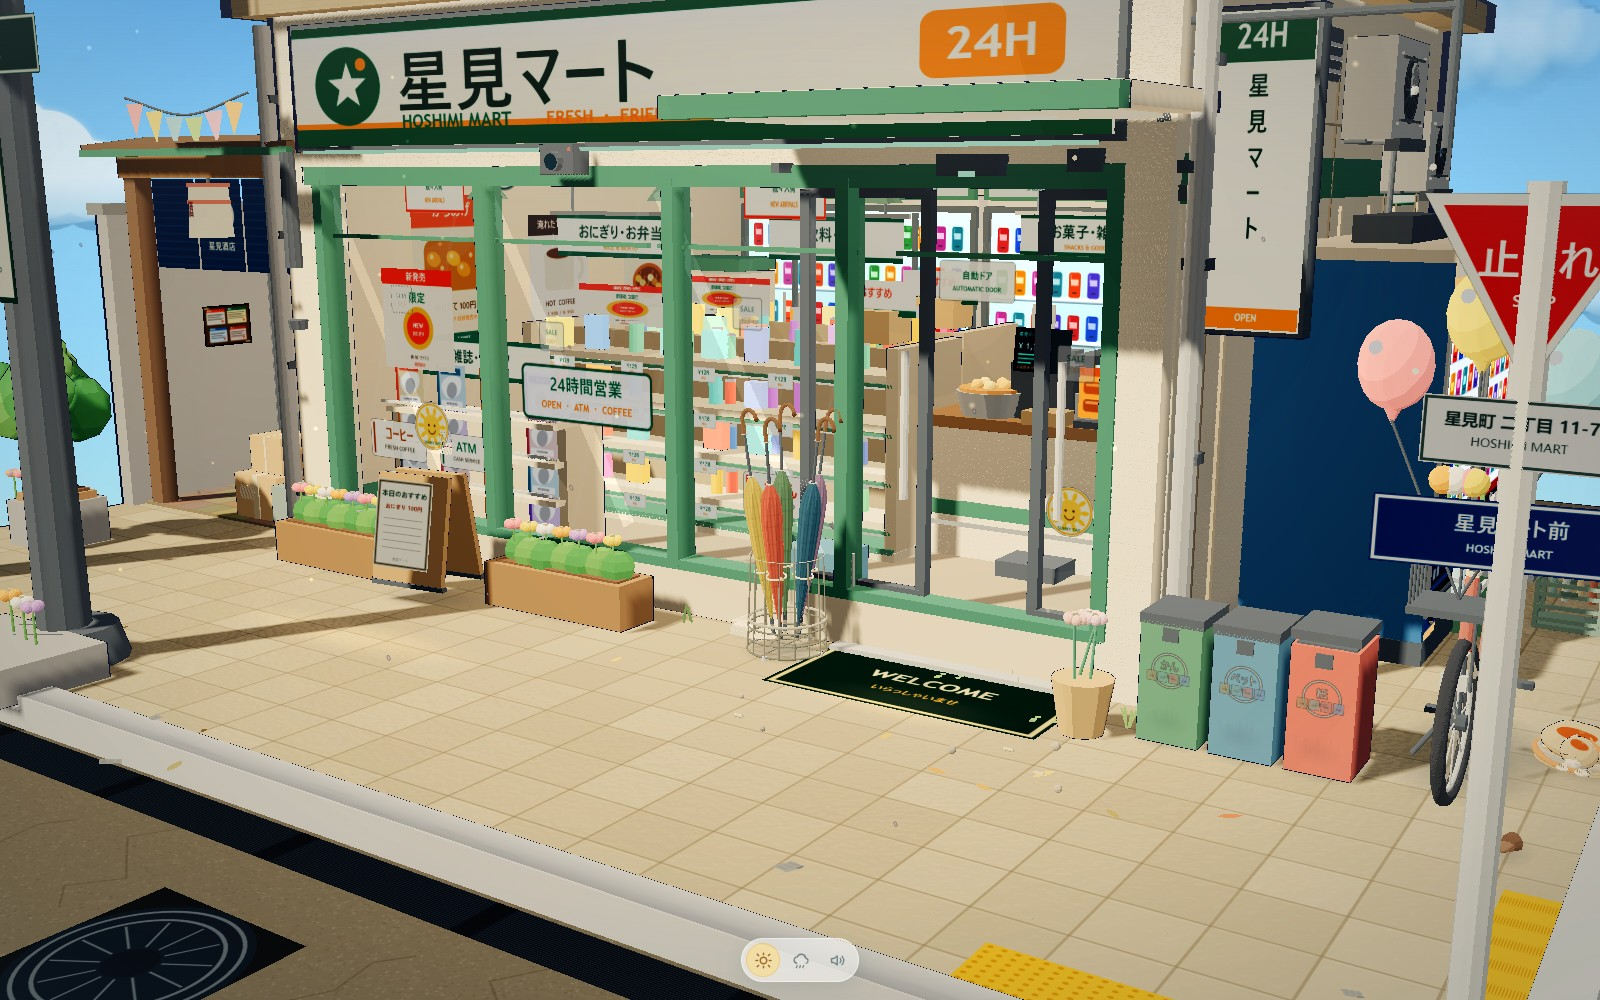
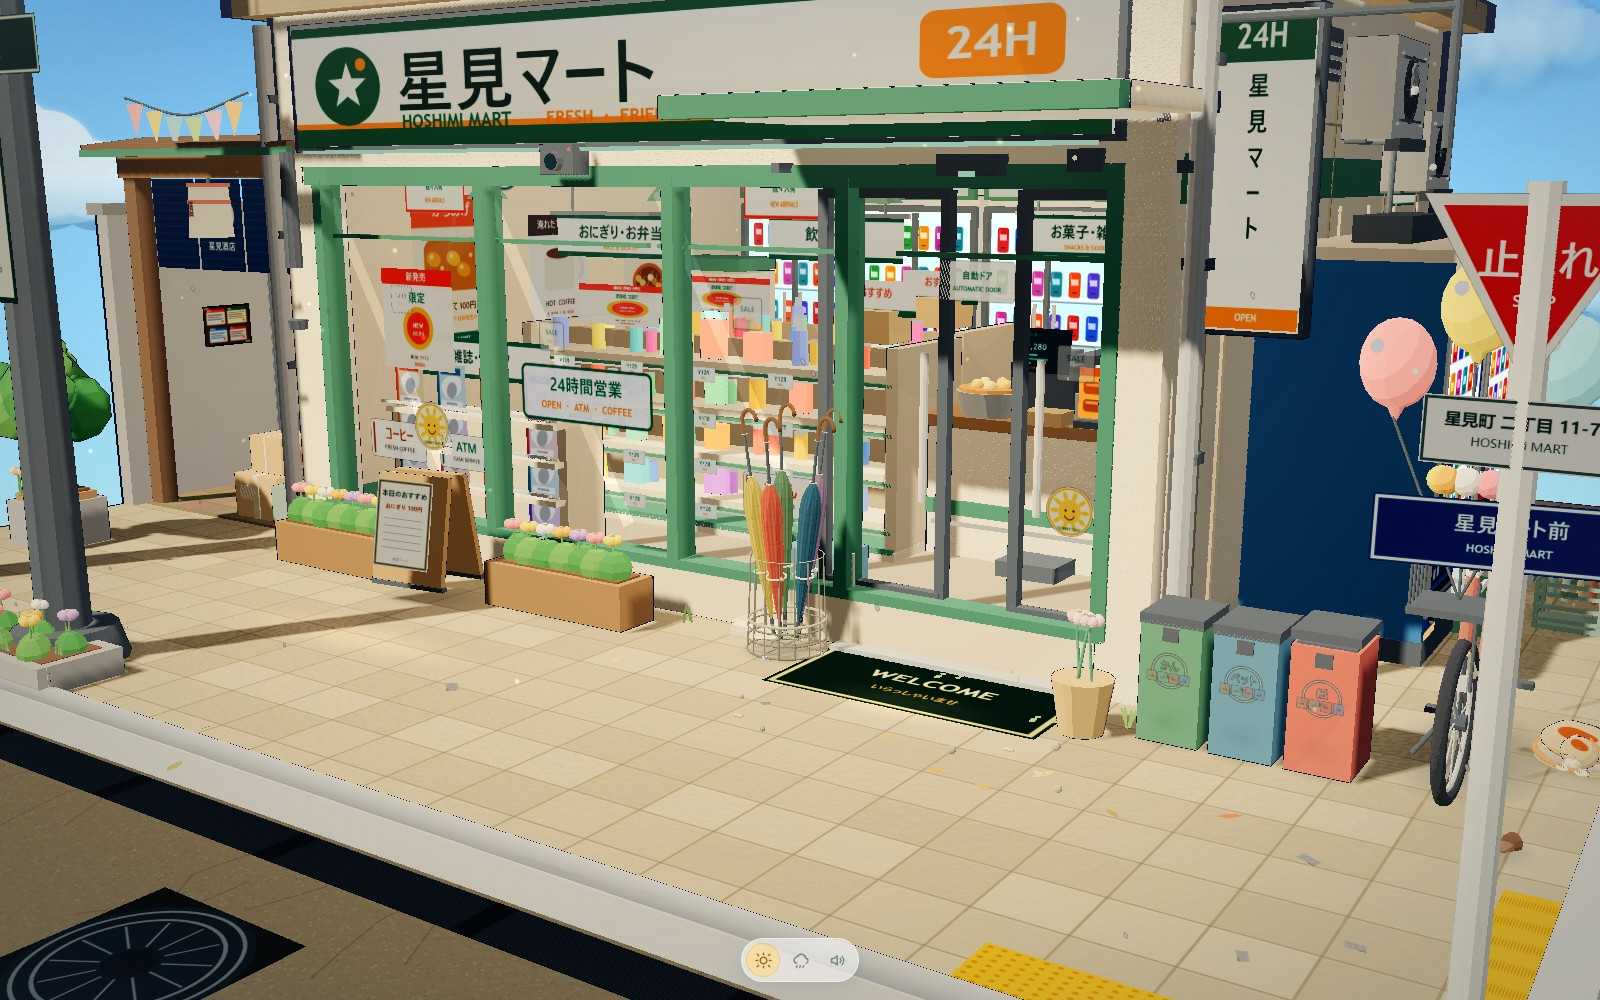
Replace floating lamp basket with ground flower bed

diff --git a/index.html b/index.html
@@ -6395,74 +6395,44 @@ const greeneryKit = kit('60-街角绿植', 0, { fromY: 0, scaleFrom: 1 });
   // flower boxes under the shop windows
   addFlowerBox(greeneryKit, -3.95, -0.5, 1.0);
   addFlowerBox(greeneryKit, -2.1, -0.5, 1.0);
-  // flowers at the base of the street lamp
-  box(greeneryKit, M.concrete, 0.9, 0.18, 0.55, -3.68, SIDEWALK_TOP + 0.09, 1.85, { outline: 0.01 });
-  for (let i = 0; i < 8; i++) {
-    addFlower(greeneryKit, -3.68 + rand(-0.34, 0.34), SIDEWALK_TOP + 0.18, 1.85 + rand(-0.16, 0.16), i, 0.8);
-  }
-  // Hanging flower basket, actually suspended from the lamp arm with three
-  // thin hanger wires. It hangs beside the lamp head rather than floating
-  // directly under the light.
-  const hx = -3.68;
-  const hz = 2.02;
-  const hookY = SIDEWALK_TOP + 4.5;
-  const basketY = SIDEWALK_TOP + 3.42;
-  const hook = new THREE.Mesh(new THREE.TorusGeometry(0.026, 0.005, 5, 12), M.metalDark);
-  hook.position.set(hx, hookY, hz);
-  hook.rotation.x = Math.PI / 2;
-  greeneryKit.add(hook);
-  for (let i = 0; i < 3; i++) {
-    const a = (i / 3) * TAU;
-    barBetween(
-      greeneryKit,
-      M.metalDark,
-      [hx, hookY, hz],
-      [hx + Math.cos(a) * 0.12, basketY + 0.12, hz + Math.sin(a) * 0.12],
-      0.0055
-    );
-  }
-  cylinder(greeneryKit, M.cardboard, 0.155, 0.115, 0.22, hx, basketY, hz, { seg: 12, outline: 0.01 });
-  // A readable wire basket frame around the coco liner.
-  [0.11, -0.11].forEach((dy, ringIndex) => {
-    const ring = new THREE.Mesh(
-      new THREE.TorusGeometry(ringIndex === 0 ? 0.165 : 0.12, 0.006, 5, 18),
-      M.metalDark
-    );
-    ring.rotation.x = Math.PI / 2;
-    ring.position.set(hx, basketY + dy, hz);
-    greeneryKit.add(ring);
+  // The street lamp rises from a real low ground flower bed rather than
+  // flowers pushed through a plain concrete slab. The bed sits behind the
+  // road curb and wraps the lamp foot with a stone border and dark soil.
+  const bedX = -3.68;
+  const bedZ = 1.72;
+  const bedW = 0.92;
+  const bedD = 0.44;
+  const bedY = SIDEWALK_TOP;
+  const borderMat = M.concrete;
+  const borderH = 0.14;
+  box(greeneryKit, borderMat, bedW, borderH, 0.06, bedX, bedY + borderH / 2, bedZ - bedD / 2 + 0.03, { outline: 0.007 });
+  box(greeneryKit, borderMat, bedW, borderH, 0.06, bedX, bedY + borderH / 2, bedZ + bedD / 2 - 0.03, { outline: 0.007 });
+  box(greeneryKit, borderMat, 0.06, borderH, bedD - 0.1, bedX - bedW / 2 + 0.03, bedY + borderH / 2, bedZ, { outline: 0.007 });
+  box(greeneryKit, borderMat, 0.06, borderH, bedD - 0.1, bedX + bedW / 2 - 0.03, bedY + borderH / 2, bedZ, { outline: 0.007 });
+  box(greeneryKit, toon(0x433128, { soft: true }), bedW - 0.13, 0.035, bedD - 0.13, bedX, bedY + borderH - 0.015, bedZ, { cast: false });
+  // Soil mounds, low foliage and stems all start inside the border.
+  const flowerSpots = [
+    [-0.32, -0.06, 0], [-0.17, 0.09, 1], [0.02, -0.08, 2], [0.19, 0.07, 3],
+    [0.32, -0.04, 4], [-0.06, 0.12, 5], [0.26, 0.12, 1],
+  ];
+  flowerSpots.forEach(([dx, dz, colorIndex]) => {
+    const fx = bedX + dx;
+    const fz = bedZ + dz;
+    sphere(greeneryKit, LEAF_MATS[colorIndex % 2], 0.075, fx, bedY + borderH + 0.025, fz, { seg: 6, cast: false });
+    addFlower(greeneryKit, fx, bedY + borderH + 0.01, fz, colorIndex, 0.72);
   });
-  for (let i = 0; i < 10; i++) {
-    const a = (i / 10) * TAU;
-    barBetween(
-      greeneryKit,
-      M.metalDark,
-      [hx + Math.cos(a) * 0.165, basketY + 0.11, hz + Math.sin(a) * 0.165],
-      [hx + Math.cos(a) * 0.12, basketY - 0.11, hz + Math.sin(a) * 0.12],
-      0.004
-    );
-  }
-  for (let i = 0; i < 8; i++) {
-    const a = (i / 8) * TAU;
-    sphere(greeneryKit, LEAF_MATS[i % 2], 0.11, hx + Math.cos(a) * 0.13, basketY + 0.07, hz + Math.sin(a) * 0.13, { seg: 6 });
-    addFlower(greeneryKit, hx + Math.cos(a) * 0.16, basketY + 0.0, hz + Math.sin(a) * 0.16, i, 0.65);
-  }
-  // A few trailing vines soften the silhouette below the basket.
-  for (let i = 0; i < 4; i++) {
-    const a = i * 1.7 + 0.3;
-    const vine = new THREE.Mesh(
-      new THREE.TubeGeometry(new THREE.CatmullRomCurve3([
-        new THREE.Vector3(hx + Math.cos(a) * 0.13, basketY - 0.06, hz + Math.sin(a) * 0.13),
-        new THREE.Vector3(hx + Math.cos(a) * 0.16, basketY - 0.2, hz + Math.sin(a) * 0.16),
-        new THREE.Vector3(hx + Math.cos(a) * 0.14, basketY - 0.34, hz + Math.sin(a) * 0.14),
-      ]), 8, 0.004, 4, false),
-      toon(0x4d7d43, { soft: true })
-    );
-    greeneryKit.add(vine);
-    for (let leaf = 0; leaf < 2; leaf++) {
-      sphere(greeneryKit, LEAF_MATS[(i + leaf) % 2], 0.035, hx + Math.cos(a) * 0.15, basketY - 0.14 - leaf * 0.12, hz + Math.sin(a) * 0.15, { seg: 5, cast: false });
+  for (let i = 0; i < 5; i++) {
+    const a = (i / 5) * TAU + 0.2;
+    const tuftX = bedX + Math.cos(a) * 0.33;
+    const tuftZ = bedZ + Math.sin(a) * 0.13;
+    for (let blade = 0; blade < 3; blade++) {
+      const g = new THREE.Mesh(new THREE.ConeGeometry(0.008, 0.1 + blade * 0.02, 4), toon(0x4e7c45, { soft: true }));
+      g.position.set(tuftX + (blade - 1) * 0.012, bedY + borderH + 0.045, tuftZ);
+      g.rotation.z = (blade - 1) * 0.25;
+      greeneryKit.add(g);
     }
   }
+  contactShadow(greeneryKit, bedX, bedZ, 1.08, 0.62, 0.24, bedY + 0.006);
 }
 
 const sunnyDecor = new THREE.Group();

diff --git a/src/main.js b/src/main.js
@@ -4207,74 +4207,44 @@ const greeneryKit = kit('60-街角绿植', 0, { fromY: 0, scaleFrom: 1 });
   // flower boxes under the shop windows
   addFlowerBox(greeneryKit, -3.95, -0.5, 1.0);
   addFlowerBox(greeneryKit, -2.1, -0.5, 1.0);
-  // flowers at the base of the street lamp
-  box(greeneryKit, M.concrete, 0.9, 0.18, 0.55, -3.68, SIDEWALK_TOP + 0.09, 1.85, { outline: 0.01 });
-  for (let i = 0; i < 8; i++) {
-    addFlower(greeneryKit, -3.68 + rand(-0.34, 0.34), SIDEWALK_TOP + 0.18, 1.85 + rand(-0.16, 0.16), i, 0.8);
-  }
-  // Hanging flower basket, actually suspended from the lamp arm with three
-  // thin hanger wires. It hangs beside the lamp head rather than floating
-  // directly under the light.
-  const hx = -3.68;
-  const hz = 2.02;
-  const hookY = SIDEWALK_TOP + 4.5;
-  const basketY = SIDEWALK_TOP + 3.42;
-  const hook = new THREE.Mesh(new THREE.TorusGeometry(0.026, 0.005, 5, 12), M.metalDark);
-  hook.position.set(hx, hookY, hz);
-  hook.rotation.x = Math.PI / 2;
-  greeneryKit.add(hook);
-  for (let i = 0; i < 3; i++) {
-    const a = (i / 3) * TAU;
-    barBetween(
-      greeneryKit,
-      M.metalDark,
-      [hx, hookY, hz],
-      [hx + Math.cos(a) * 0.12, basketY + 0.12, hz + Math.sin(a) * 0.12],
-      0.0055
-    );
-  }
-  cylinder(greeneryKit, M.cardboard, 0.155, 0.115, 0.22, hx, basketY, hz, { seg: 12, outline: 0.01 });
-  // A readable wire basket frame around the coco liner.
-  [0.11, -0.11].forEach((dy, ringIndex) => {
-    const ring = new THREE.Mesh(
-      new THREE.TorusGeometry(ringIndex === 0 ? 0.165 : 0.12, 0.006, 5, 18),
-      M.metalDark
-    );
-    ring.rotation.x = Math.PI / 2;
-    ring.position.set(hx, basketY + dy, hz);
-    greeneryKit.add(ring);
+  // The street lamp rises from a real low ground flower bed rather than
+  // flowers pushed through a plain concrete slab. The bed sits behind the
+  // road curb and wraps the lamp foot with a stone border and dark soil.
+  const bedX = -3.68;
+  const bedZ = 1.72;
+  const bedW = 0.92;
+  const bedD = 0.44;
+  const bedY = SIDEWALK_TOP;
+  const borderMat = M.concrete;
+  const borderH = 0.14;
+  box(greeneryKit, borderMat, bedW, borderH, 0.06, bedX, bedY + borderH / 2, bedZ - bedD / 2 + 0.03, { outline: 0.007 });
+  box(greeneryKit, borderMat, bedW, borderH, 0.06, bedX, bedY + borderH / 2, bedZ + bedD / 2 - 0.03, { outline: 0.007 });
+  box(greeneryKit, borderMat, 0.06, borderH, bedD - 0.1, bedX - bedW / 2 + 0.03, bedY + borderH / 2, bedZ, { outline: 0.007 });
+  box(greeneryKit, borderMat, 0.06, borderH, bedD - 0.1, bedX + bedW / 2 - 0.03, bedY + borderH / 2, bedZ, { outline: 0.007 });
+  box(greeneryKit, toon(0x433128, { soft: true }), bedW - 0.13, 0.035, bedD - 0.13, bedX, bedY + borderH - 0.015, bedZ, { cast: false });
+  // Soil mounds, low foliage and stems all start inside the border.
+  const flowerSpots = [
+    [-0.32, -0.06, 0], [-0.17, 0.09, 1], [0.02, -0.08, 2], [0.19, 0.07, 3],
+    [0.32, -0.04, 4], [-0.06, 0.12, 5], [0.26, 0.12, 1],
+  ];
+  flowerSpots.forEach(([dx, dz, colorIndex]) => {
+    const fx = bedX + dx;
+    const fz = bedZ + dz;
+    sphere(greeneryKit, LEAF_MATS[colorIndex % 2], 0.075, fx, bedY + borderH + 0.025, fz, { seg: 6, cast: false });
+    addFlower(greeneryKit, fx, bedY + borderH + 0.01, fz, colorIndex, 0.72);
   });
-  for (let i = 0; i < 10; i++) {
-    const a = (i / 10) * TAU;
-    barBetween(
-      greeneryKit,
-      M.metalDark,
-      [hx + Math.cos(a) * 0.165, basketY + 0.11, hz + Math.sin(a) * 0.165],
-      [hx + Math.cos(a) * 0.12, basketY - 0.11, hz + Math.sin(a) * 0.12],
-      0.004
-    );
-  }
-  for (let i = 0; i < 8; i++) {
-    const a = (i / 8) * TAU;
-    sphere(greeneryKit, LEAF_MATS[i % 2], 0.11, hx + Math.cos(a) * 0.13, basketY + 0.07, hz + Math.sin(a) * 0.13, { seg: 6 });
-    addFlower(greeneryKit, hx + Math.cos(a) * 0.16, basketY + 0.0, hz + Math.sin(a) * 0.16, i, 0.65);
-  }
-  // A few trailing vines soften the silhouette below the basket.
-  for (let i = 0; i < 4; i++) {
-    const a = i * 1.7 + 0.3;
-    const vine = new THREE.Mesh(
-      new THREE.TubeGeometry(new THREE.CatmullRomCurve3([
-        new THREE.Vector3(hx + Math.cos(a) * 0.13, basketY - 0.06, hz + Math.sin(a) * 0.13),
-        new THREE.Vector3(hx + Math.cos(a) * 0.16, basketY - 0.2, hz + Math.sin(a) * 0.16),
-        new THREE.Vector3(hx + Math.cos(a) * 0.14, basketY - 0.34, hz + Math.sin(a) * 0.14),
-      ]), 8, 0.004, 4, false),
-      toon(0x4d7d43, { soft: true })
-    );
-    greeneryKit.add(vine);
-    for (let leaf = 0; leaf < 2; leaf++) {
-      sphere(greeneryKit, LEAF_MATS[(i + leaf) % 2], 0.035, hx + Math.cos(a) * 0.15, basketY - 0.14 - leaf * 0.12, hz + Math.sin(a) * 0.15, { seg: 5, cast: false });
+  for (let i = 0; i < 5; i++) {
+    const a = (i / 5) * TAU + 0.2;
+    const tuftX = bedX + Math.cos(a) * 0.33;
+    const tuftZ = bedZ + Math.sin(a) * 0.13;
+    for (let blade = 0; blade < 3; blade++) {
+      const g = new THREE.Mesh(new THREE.ConeGeometry(0.008, 0.1 + blade * 0.02, 4), toon(0x4e7c45, { soft: true }));
+      g.position.set(tuftX + (blade - 1) * 0.012, bedY + borderH + 0.045, tuftZ);
+      g.rotation.z = (blade - 1) * 0.25;
+      greeneryKit.add(g);
     }
   }
+  contactShadow(greeneryKit, bedX, bedZ, 1.08, 0.62, 0.24, bedY + 0.006);
 }
 
 const sunnyDecor = new THREE.Group();

diff --git a/README.md b/README.md
@@ -144,7 +144,7 @@ python -m http.server 8765
 - 清澈蓝天、柔软白云，暖色斜射日光与柔和阴影
 - 完全干爽的路面与斑马线，无雨丝、无积水、无湿地倒影
 - 招牌与自动贩卖机不使用强发光；玻璃橱窗带轻微自然反光
-- 街角新增树木、花箱、吊篮、灯柱花坛与自行车篮小花
+- 街角新增树木、花箱、灯柱下的低矮地面花坛与自行车篮小花；原先悬空感明显的吊篮已移除
 - 自行车旁有彩色气球，巷口有祭典小旗，橱窗与墙面有手绘海报和可爱贴纸
 - 门口、斑马线与墙脚有阳光光斑，空气中有轻微浮尘
 - 店内布局、货架、商品、收银台、热食柜、ATM 等与雨夜版完全一致
